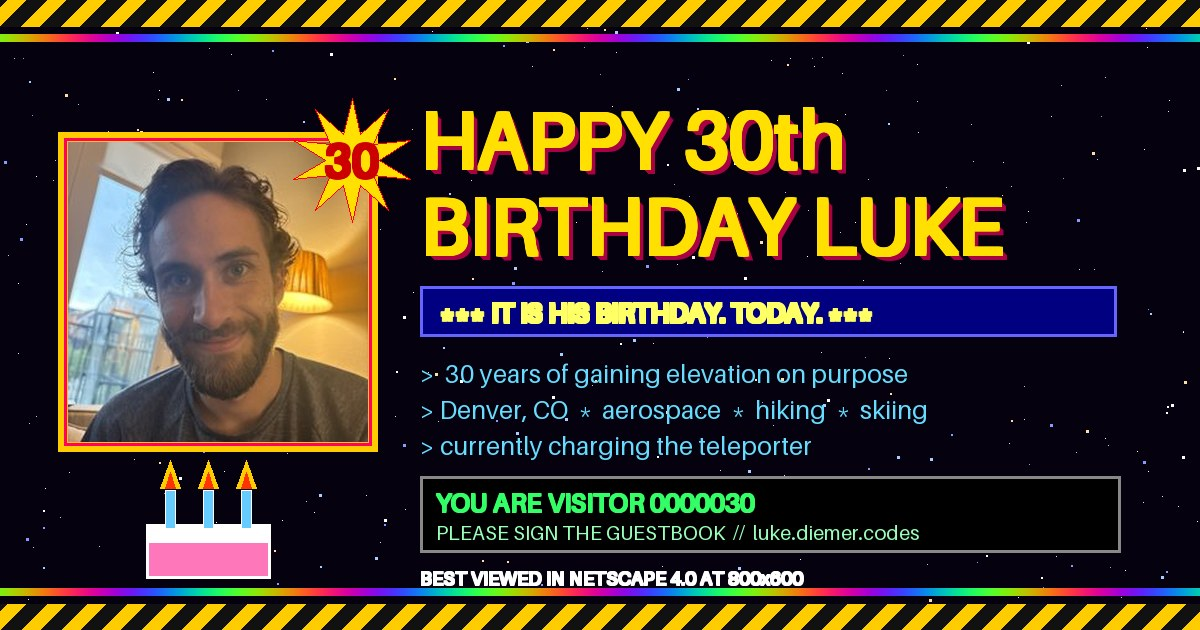
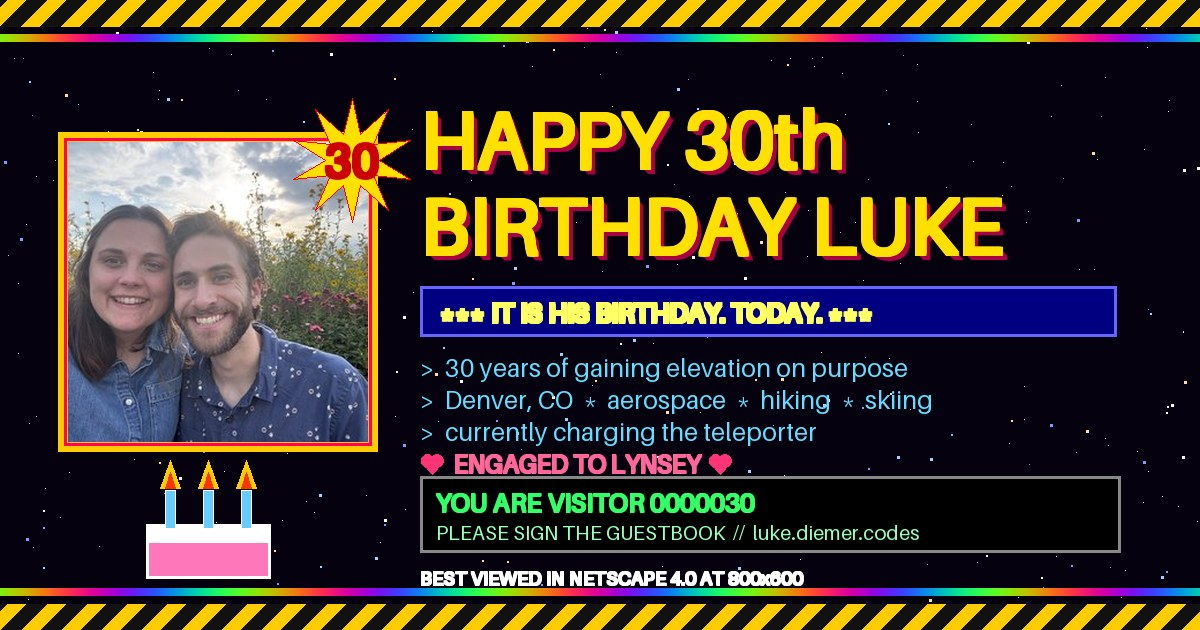
web/luke-birthday: he's engaged to Lynsey
Adds an ENGAGED section (photo, heart marquee, the obligatory pulsing hearts),
a FIANCÉE row in LUKE.DAT, an eleventh entry on the top 10 list, a sixth
guestbook seed, and pink hearts mixed into the falling snow.

The preview card now shows the two of them rather than the solo portrait and
carries an ENGAGED TO LYNSEY line. Two notes on that:

- The hearts on the card are drawn as shapes. Pillow's bundled Aileron has no
  U+2665, so a literal ♥ in a text() call renders as a tofu box.
- og:image gained a ?v=2. Cloudflare had the previous card cached at the edge
  for a day and kept serving it after the file changed; bump N with the card.

Deployed as 1.2.1.

Changed region(s): [[0.0308, 0.2111, 0.3083, 0.7238], [0.3392, 0.573, 0.7708, 0.754]]

diff --git a/web/luke-birthday/site/index.html b/web/luke-birthday/site/index.html
@@ -4,8 +4,8 @@
 <meta charset="utf-8">
 <meta name="viewport" content="width=device-width, initial-scale=1">
 <title>~*~ LUKE'S 30th BIRTHDAY HOMEPAGE ~*~ [NEW!]</title>
-<meta name="description" content="Luke Diemer turns 30. Sign the guestbook.">
-<meta name="keywords" content="luke, birthday, 30, denver, colorado, aerospace, hiking, skiing, risk of rain 2, cool page">
+<meta name="description" content="Luke Diemer turns 30 and is engaged to Lynsey. Sign the guestbook.">
+<meta name="keywords" content="luke, lynsey, engaged, birthday, 30, denver, colorado, aerospace, hiking, skiing, risk of rain 2, cool page">
 <meta name="author" content="Zach (his brother)">
 
 <!-- Link preview for the family group chat. Absolute URLs, because every
@@ -14,16 +14,16 @@
 <meta property="og:type" content="website">
 <meta property="og:url" content="https://luke.diemer.codes/">
 <meta property="og:title" content="★ HAPPY 30th BIRTHDAY LUKE ★">
-<meta property="og:description" content="It is his birthday. TODAY. 30 years of gaining elevation on purpose. Sign the guestbook. Best viewed in Netscape 4.0.">
-<meta property="og:image" content="https://luke.diemer.codes/img/og.jpg">
+<meta property="og:description" content="It is his birthday. TODAY. 30 years of gaining elevation on purpose, and engaged to Lynsey. Sign the guestbook. Best viewed in Netscape 4.0.">
+<meta property="og:image" content="https://luke.diemer.codes/img/og.jpg?v=2">
 <meta property="og:image:width" content="1200">
 <meta property="og:image:height" content="630">
-<meta property="og:image:alt" content="Luke, framed in a gold GeoCities border next to giant yellow WordArt reading HAPPY 30th BIRTHDAY LUKE, with a cake and construction stripes.">
+<meta property="og:image:alt" content="Luke and his fiancee Lynsey framed in gold GeoCities borders next to giant yellow WordArt reading HAPPY 30th BIRTHDAY LUKE, with a cake and construction stripes.">
 <meta property="og:site_name" content="LUKE'S HOMEPAGE">
 <meta name="twitter:card" content="summary_large_image">
 <meta name="twitter:title" content="★ HAPPY 30th BIRTHDAY LUKE ★">
-<meta name="twitter:description" content="It is his birthday. TODAY. Sign the guestbook.">
-<meta name="twitter:image" content="https://luke.diemer.codes/img/og.jpg">
+<meta name="twitter:description" content="It is his birthday. TODAY. Also engaged to Lynsey. Sign the guestbook.">
+<meta name="twitter:image" content="https://luke.diemer.codes/img/og.jpg?v=2">
 <meta name="theme-color" content="#000080">
 
 <link rel="icon" href="img/star30.gif">
@@ -70,6 +70,7 @@
   <div class="navtitle">&#9788; NAVIGATE &#9788;</div>
   <a href="#top">&#9755; HOME</a>
   <a href="#about">&#9755; ABOUT LUKE</a>
+  <a href="#engaged">&#9755; ENGAGED!!! <img src="img/new.gif" width="30" height="13" alt="new"></a>
   <a href="#mountains">&#9755; THE MOUNTAINS</a>
   <a href="#rockets">&#9755; SPACE STUFF</a>
   <a href="#ror2">&#9755; RISK OF RAIN 2</a>
@@ -115,6 +116,8 @@
   <p>He lives near <b>Denver</b>. He builds things that go to <b>space</b>. On weekends he
   walks <i>up</i> mountains on purpose, then in winter he pays money to slide back <i>down</i>
   them. At night he helps me survive the teleporter event.</p>
+  <p>He is also, as of recently, <b class="rainbowtext">ENGAGED TO LYNSEY</b> &#9829;
+  &#8212; scroll down, there's a whole section, I made a section.</p>
   <p>Today he hits <b class="blink">30</b>, which in Colorado terms is roughly
   <b>5,280 feet</b> of personal elevation gain.</p>
   <div class="alert">&#9888; WARNING: THIS PAGE CONTAINS 100% OF YOUR DAILY MOTION &#9888;</div>
@@ -135,8 +138,38 @@
 <tr><td class="k">MAIN:</td><td>Risk of Rain 2 (see shrine below)</td></tr>
 <tr><td class="k">BROTHER:</td><td>Zach (webmaster of this site, hi)</td></tr>
 <tr><td class="k">ICQ:</td><td>not telling</td></tr>
-<tr><td class="k">STATUS:</td><td class="blink">ONLINE</td></tr>
+<tr><td class="k">FIANC&Eacute;E:</td><td><b class="heartbeat">Lynsey</b> &#9829; &#9829; &#9829;</td></tr>
+<tr><td class="k">STATUS:</td><td class="blink">ONLINE &amp; ENGAGED</td></tr>
 </table>
+
+<img src="img/flames.gif" width="100%" height="14" alt="~~~~~">
+
+<a name="engaged"></a>
+<h2>&#9829; ENGAGED TO LYNSEY!!! &#9829; <img src="img/new.gif" width="40" height="17" alt="new"></h2>
+
+<div class="lovebar">
+  <marquee scrollamount="6" direction="left">&#9829;&#9829;&#9829; THEY'RE ENGAGED &#9829;&#9829;&#9829; BEST DECISION EITHER OF THEM HAS EVER MADE &#9829;&#9829;&#9829; CONGRATULATIONS YOU TWO &#9829;&#9829;&#9829; THE WEBMASTER IS VERY HAPPY ABOUT THIS &#9829;&#9829;&#9829;</marquee>
+</div>
+
+<table cellpadding="8"><tr>
+<td valign="top" align="center">
+  <img src="img/luke-lynsey.jpg" width="360" alt="Luke and Lynsey in a field of sunflowers" class="frame heartframe">
+  <div class="caption">LUKE &amp; LYNSEY.JPG<br>(golden hour, wildflowers, the whole thing)</div>
+</td>
+<td valign="top">
+  <div class="hearts">&#9829; &#9829; &#9829; &#9829; &#9829;</div>
+  <p class="lead">Turning 30 is fine. Getting engaged to <b class="heartbeat">Lynsey</b>
+  is the actual headline, and the birthday is just the excuse for the website.</p>
+  <p>Lynsey: welcome to the family, formally, in HTML. You are marrying a man who
+  owns eleven jackets and can tell you the R-value of each one. You already knew
+  that. You said yes anyway. We think you are great.</p>
+  <div class="loveframe">
+    <div class="lovehead">&#9825; RELATIONSHIP STATUS &#9825;</div>
+    <div><b>LUKE</b> &#10133; <b>LYNSEY</b> &#61; <b class="blink">&#9829; FOREVER &#9829;</b></div>
+    <div class="tiny">est. one (1) engagement &nbsp;|&nbsp; 0 regrets logged</div>
+  </div>
+</td>
+</tr></table>
 
 <img src="img/flames.gif" width="100%" height="14" alt="~~~~~">
 
@@ -226,7 +259,9 @@
   <li>Will absolutely res you, but he will narrate it.</li>
   <li>Pronounces "again" normally and won't be baited about it.</li>
   <li>Is 30 today and looks exactly zero days older than yesterday.</li>
+  <li value="11">Convinced Lynsey to marry him. Best trade in the game. &#9829;</li>
 </ol>
+<div class="tiny">(that is 11 items. The list was extended by popular demand.)</div>
 
 <img src="img/flames.gif" width="100%" height="14" alt="~~~~~">
 

diff --git a/web/luke-birthday/site/geo.js b/web/luke-birthday/site/geo.js
@@ -45,7 +45,7 @@
   });
 
   /* ---------------- cursor sparkle trail ---------------- */
-  var glyphs = ['✦', '✧', '✨', '★', '❄', '🚀'];
+  var glyphs = ['✦', '✧', '✨', '★', '❄', '🚀', '♥'];
   var box = $('sparkles');
   var last = 0;
   document.addEventListener('mousemove', function (e) {
@@ -64,7 +64,8 @@
 
   /* ---------------- falling snow (it's Colorado) ---------------- */
   var snow = $('snow');
-  var flakes = ['❄', '❅', '❆', '•'];
+  // One in six is a pink heart, since the engagement outranks the snow.
+  var flakes = ['❄', '❅', '❆', '•', '❄', '♥'];
   function drop() {
     var f = document.createElement('div');
     f.className = 'flake';
@@ -73,7 +74,8 @@
     var dur = 6000 + Math.random() * 7000;
     f.style.left = Math.random() * 100 + 'vw';
     f.style.fontSize = size + 'px';
-    f.style.color = Math.random() < 0.15 ? '#ffe000' : '#dff2ff';
+    f.style.color = f.textContent === '♥' ? '#ff6699'
+                  : (Math.random() < 0.15 ? '#ffe000' : '#dff2ff');
     snow.appendChild(f);
     f.animate([
       { transform: 'translateY(0) rotate(0deg)' },
@@ -156,7 +158,8 @@
     { who: 'The Mountains', where: 'Colorado', when: 'Aug 16, 2026', body: 'we are still here. you know where to find us. bring the good poles this time.' },
     { who: 'Providence', where: 'Petrichor V', when: 'Aug 16, 2026', body: 'happy birthday. the loop must continue.' },
     { who: 'I-70 Westbound', where: 'mile marker 241', when: 'Aug 16, 2026', body: 'moving freely at 7:15am. just kidding. happy birthday though.' },
-    { who: 'A Rocket', where: 'low earth orbit', when: 'Aug 16, 2026', body: 'thanks for the ride up. 10/10 would be assembled by luke again.' }
+    { who: 'A Rocket', where: 'low earth orbit', when: 'Aug 16, 2026', body: 'thanks for the ride up. 10/10 would be assembled by luke again.' },
+    { who: 'The Engagement Ring', where: "Lynsey's hand", when: 'Aug 16, 2026', body: 'doing great up here, thanks for asking. happy birthday luke. congratulations to you both. ♥' }
   ];
 
   function esc(s) {

diff --git a/web/luke-birthday/site/geo.css b/web/luke-birthday/site/geo.css
@@ -139,6 +139,25 @@ table.stats td.k { background: #202050; color: #ffcc66; font-weight: bold; white
 .item.lunar  { background: #66ccff; border-color: #ccf0ff; }
 .ror2quote { color: #ffcc88; font-style: italic; text-align: center; margin: 10px 0; min-height: 22px; }
 
+/* ---- the engagement section ---- */
+.lovebar {
+  background: #4a0022; border: 3px ridge #ff77bb; color: #ffccdd;
+  font-weight: bold; padding: 5px; margin: 10px 0;
+}
+.heartbeat { color: #ff6699; animation: thump 1.2s ease-in-out infinite; display: inline-block; }
+@keyframes thump { 0%,100% { transform: scale(1); } 15% { transform: scale(1.25); } 30% { transform: scale(1); } 45% { transform: scale(1.18); } }
+.heartframe { border-color: #ff77bb; animation: loveglow 2.4s ease-in-out infinite; }
+@keyframes loveglow {
+  0%,100% { box-shadow: 0 0 8px #ff3388; }
+  50%     { box-shadow: 0 0 26px #ff88cc; }
+}
+.hearts { font-size: 26px; color: #ff6699; letter-spacing: 6px; animation: thump 1.6s ease-in-out infinite; }
+.loveframe {
+  background: #33001a; border: 3px double #ff77bb; padding: 10px; margin-top: 12px;
+  text-align: center; font-size: 18px;
+}
+.lovehead { color: #ffaacc; font-weight: bold; letter-spacing: 2px; margin-bottom: 6px; }
+
 ol.top10 { font-size: 16px; line-height: 1.7; }
 ol.top10 li { margin-bottom: 4px; }
 

diff --git a/web/luke-birthday/gen-og.py b/web/luke-birthday/gen-og.py
@@ -34,6 +34,17 @@ def bold(d, xy, txt, font, fill, weight=2, anchor=None):
             d.text((x + dx, y + dy), txt, font=font, fill=fill, anchor=anchor)
 
 
+def heart(d, cx, cy, size, fill):
+    """Draw a heart. Pillow's bundled Aileron has no U+2665 — a literal ♥ in a
+    text() call renders as a tofu box, which is a different kind of retro than
+    the one we want. Two lobes and a triangle, same as everyone drew them."""
+    r = size / 3.4
+    d.ellipse([cx - size / 2, cy - r, cx - size / 2 + 2 * r, cy + r], fill=fill)
+    d.ellipse([cx + size / 2 - 2 * r, cy - r, cx + size / 2, cy + r], fill=fill)
+    d.polygon([(cx - size / 2 + 1, cy + r / 3), (cx + size / 2 - 1, cy + r / 3),
+               (cx, cy + size * 0.62)], fill=fill)
+
+
 def shadowed(d, xy, txt, font, fill, shadow, depth=6, anchor=None):
     """1998 WordArt: a hard drop shadow stepped down-right, no blur."""
     x, y = xy
@@ -74,8 +85,10 @@ rainbow_rule(34)
 rainbow_rule(H - 42)
 
 # ---- Luke, framed -----------------------------------------------------------
-photo = Image.open("site/img/luke-square.jpg").convert("RGB")
-photo = ImageOps.fit(photo, (300, 300), Image.LANCZOS, centering=(0.5, 0.35))
+# The couple, not the solo portrait: the engagement is the other half of the
+# news and a group chat should see Lynsey too. Luke is in frame either way.
+photo = Image.open("site/img/couple-square.jpg").convert("RGB")
+photo = ImageOps.fit(photo, (300, 300), Image.LANCZOS, centering=(0.5, 0.45))
 frame = Image.new("RGB", (320, 320), "#ffcc00")
 ImageDraw.Draw(frame).rectangle([6, 6, 313, 313], outline="#ff0066", width=3)
 frame.paste(photo, (10, 10))
@@ -99,15 +112,23 @@ shadowed(d, (TX, 178), "BIRTHDAY LUKE", F(78), "#ffe000", "#aa0044")
 d.rectangle([TX, 286, TX - 4 + 700, 336], fill="#000080", outline="#6666ff", width=3)
 bold(d, (TX + 20, 296), "*** IT IS HIS BIRTHDAY. TODAY. ***", F(26), "#ffff66")
 
+# Four lines now, so the leading tightens rather than the block growing into
+# the terminal box at y=476.
 lines = [
     ">  30 years of gaining elevation on purpose",
-    "> Denver, CO  *  aerospace  *  hiking  *  skiing",
-    "> currently charging the teleporter",
+    ">  Denver, CO  *  aerospace  *  hiking  *  skiing",
+    ">  currently charging the teleporter",
+    None,  # drawn separately, in heart pink
 ]
-y = 358
+y = 352
 for line in lines:
-    d.text((TX, y), line, font=F(25), fill="#66ddff")
-    y += 36
+    if line is None:
+        heart(d, TX + 12, y + 13, 22, "#ff3377")
+        bold(d, (TX + 34, y), "ENGAGED TO LYNSEY", F(25), "#ff6699", weight=1)
+        heart(d, TX + 300, y + 13, 22, "#ff3377")
+    else:
+        d.text((TX, y), line, font=F(25), fill="#66ddff")
+    y += 32
 
 # ---- the little green terminal box, bottom right ----------------------------
 bx0, by0, bx1, by1 = TX, 476, TX + 700, 552

diff --git a/web/luke-birthday/README.md b/web/luke-birthday/README.md
@@ -31,7 +31,10 @@ folder of generated GIFs. There is **no build step, no npm, and no submodule**.
   autoplay and that is the one bit of 1998 authenticity we cannot have back.
 - `site/img/og.jpg` — the link-preview card, drawn by `gen-og.py` in this
   directory. Regenerate with `python3 gen-og.py` after editing that script; do
-  not hand-edit the JPEG. The `og:*` tags in `index.html` point at the absolute
+  not hand-edit the JPEG. The `og:image` URL carries a `?v=N` — Cloudflare
+  caches the card at the edge for a day and scrapers cache it for longer, so
+  **bump that N whenever the card changes** or the group chat keeps seeing the
+  previous one. The `og:*` tags in `index.html` point at the absolute
   URL, so the preview only resolves once the Cloudflare hostname is live.
 - `site/img/` — every GIF, button and badge was generated by a Pillow script;
   the landscape photos are Wikimedia Commons (CC BY / CC BY-SA) and the launch
@@ -39,7 +42,7 @@ folder of generated GIFs. There is **no build step, no npm, and no submodule**.
 
 ## The guestbook is not a database
 
-It writes to the visitor's own `localStorage`, on top of five seeded entries.
+It writes to the visitor's own `localStorage`, on top of six seeded entries.
 There is no backend, and adding one for a page that matters for a day was not
 worth a Postgres. The page says so, under the entries.
 
